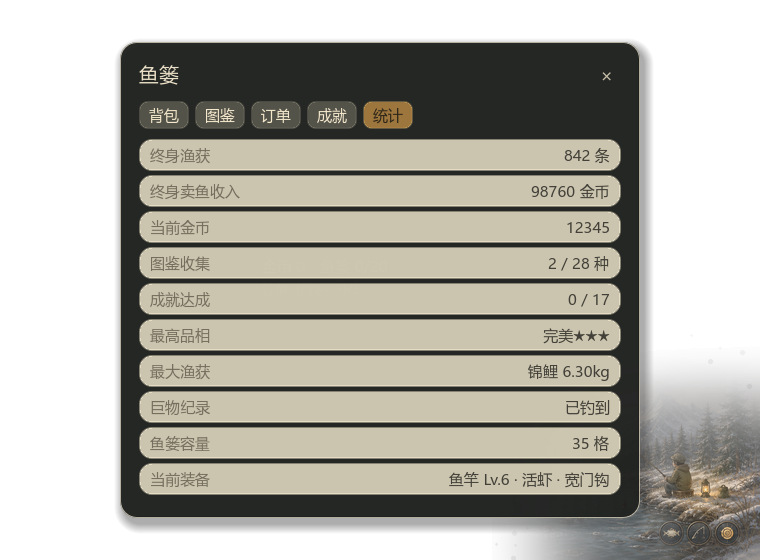
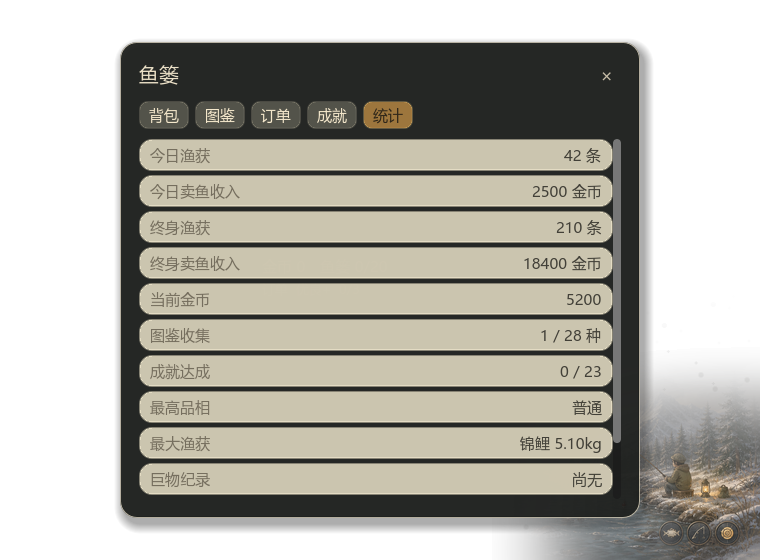
通宵⑲ 统计页今日数据（今日渔获 / 今日卖鱼收入）
- 统计页顶部新增「今日渔获」「今日卖鱼收入」，对照终身数据给当日进度感
- day_stat 每日起点快照（仿周目标 base），跨天自动重置；_update_hud 即时维护
- 存档加 day_stat 字段（旧档自动现生成）；回归含增量/跨天重置用例，0 失败

diff --git a/docs/overnight-summary-20260614.md b/docs/overnight-summary-20260614.md
@@ -25,6 +25,7 @@
 | 16 | **存档原子写+备份回退** 临时文件+改名，损坏自动从 .bak 恢复，防杀进程丢档 | 健壮性 | 见 git |
 | 17 | **窗口位置安全钳制** 存档位置离屏(换显示器/负坐标)时回退角落，否则钳到可见区 | 健壮性 | 见 git |
 | 18 | **数值再平衡复查** 纳入鱼钩跑探针，确认经济健康(各线回本递增、全满×19.9)，无需调整 | 平衡 | 见 git |
+| 19 | **统计页今日数据** 顶部加今日渔获/今日卖鱼收入(每日快照,跨天重置) | 当日进度感 | 见 git |
 | — | 调研文档（6 方向）+ README/白皮书/美术需求 + 本总结 全面同步 | — | `e2dc11b` `508fec4` `108038f` |
 
 > 另：睡前基线提交 `97bde8f` 本身是「离线小结面板」（回屏弹时长/渔获/最值钱一条/合计可卖）。